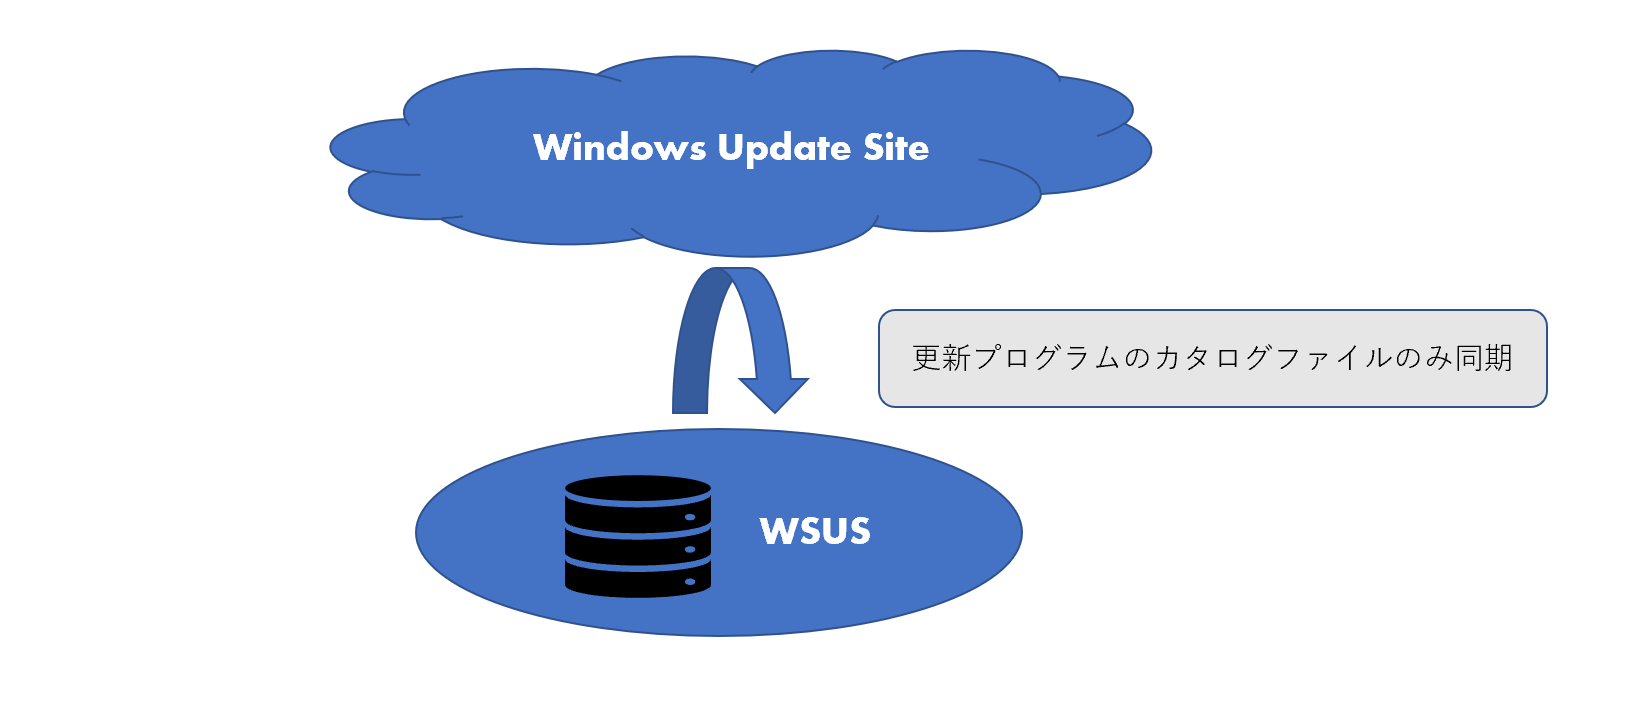
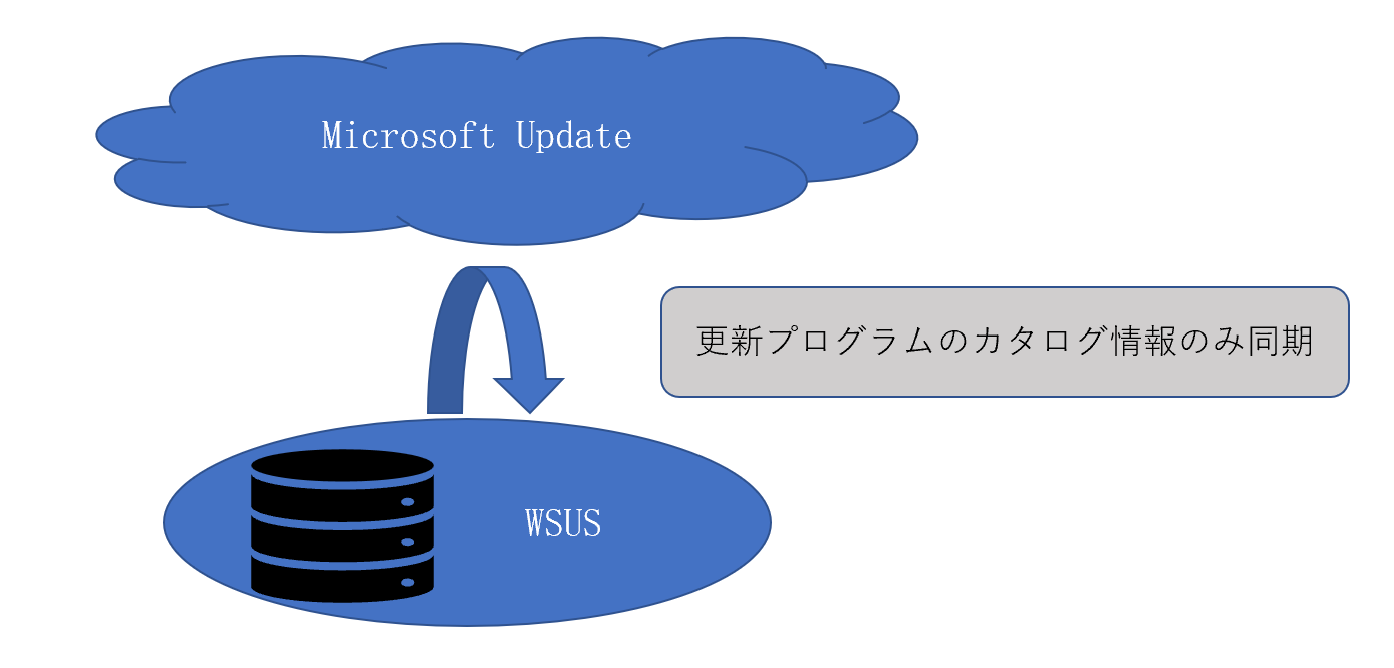
Added WSUS Blog Post 2022/06/06

Changed region(s): [[0.0617, 0.0299, 0.9871, 0.9581]]

diff --git a/articles/wsus/2022-06-06_01.md b/articles/wsus/2022-06-06_01.md
@@ -24,23 +24,33 @@ WSUS からクライアントが更新プログラムを取得するまでの流
 解説
 
 1. WSUS 同期  
-   WSUS は、更新プログラムを同期させる際に、カタログ情報と呼ばれるメタデータをダウンロードします。  
-   この時、更新プログラムのコンテンツファイルと呼ばれる実体ファイルはダウンロードしません。  
-   このカタログ情報は実体となるコンテンツファイルよりも非常にファイルサイズは小さいものとなります。
+    WSUS は、更新プログラムを同期させる際に、カタログ情報と呼ばれるメタデータをダウンロードします。  
+    この時、更新プログラムのコンテンツ ファイルと呼ばれる実体ファイルはダウンロードしません。  
+    このカタログ情報は実体となるコンテンツファイルよりもファイルサイズは小さいものとなり、カタログ情報は WSUS データベース (SUSDB) に格納されます。
    ![](2022-06-06_01/2022-06-06_01_6.png)
 
+   また、このカタログ情報は、アップストリーム サーバーがインターネットになっている場合には、Microsoft Update からダウンロードされます。  
+    一方、アップストリーム WSUS が指定されている場合は、アップストリーム WSUS からダウンロードされます。  
+    アップストリームサーバーは、 WSUS コンソールにて以下より設定いただけます。  
+   [オプション] > [更新元及びプロキシサーバー]  
+    ![](2022-06-06_01/2022-06-06_01_12.png)
+
 2. 更新プログラムの承認  
-   2-1.承認作業を実施することにより、データベースへ承認情報が変更されます。  
-   2-2. WSUS にて承認作業が行われることによって、更新プログラムのコンテンツ ファイルのダウンロードが開始されます。
-   このとき実体のファイルがダウンロードされます。  
+   2-1.承認作業を実施することにより、 WSUS データベースの承認情報が変更されます。  
+    ![](2022-06-06_01/2022-06-06_01_13.png)  
+    ![](2022-06-06_01/2022-06-06_01_14.png)
+   2-2. WSUS にて承認作業が行われることによって、更新プログラムのコンテンツ ファイルのダウンロードが開始されます。  
+   このとき、更新プログラムの実体となるコンテンツ ファイルが WsusContent フォルダーにダウンロードされます。  
    ![](2022-06-06_01/2022-06-06_01_7.png)
 
 3. クライアントが承認情報を取得
    クライアントは、（ランダム時間を含む）既定で約 22 時間毎に WindowsUpdate の自動更新を実行し、 WSUS へスキャン処理を実施します。自らに必要な更新プログラムが承認されていた場合には、その情報をもとに、自動更新の構成ポリシーの設定に従って適用作業を実施します。  
    ![](2022-06-06_01/2022-06-06_01_8.png)
 
-補足情報  
-WSUS サーバー上のコンテンツ ファイルの有無を確認  
+# 補足情報
+
+## WSUS サーバー上のコンテンツ ファイルの有無を確認
+
 1． WSUS コンソールで対象の更新プログラムを右クリックし「 ファイル情報 」を参照します。  
 ![](2022-06-06_01/2022-06-06_01_1.png)  
 2．更新プログラムの URI が表示されています。これが更新プログラムの実体ファイルの格納先になります。  
@@ -51,7 +61,15 @@ WSUS サーバー上のコンテンツ ファイルの有無を確認
 4．フォルダー内に格納されているファイルが存在するかを確認します。  
  ![](2022-06-06_01/2022-06-06_01_4.png)
 
-コンテンツ ファイルの削除方法  
+5． WSUS コンソール上では [更新プログラム] の表示にて、ファイルの状態列を追加し、コンテンツ ファイルのダウンロード状況を確認いただけます。  
+カラムを右クリックし、" ファイルの状態 "　を列に追加します。  
+![](2022-06-06_01/2022-06-06_01_9.png)  
+" ファイルの状態 " 列のアイコンで「ダウンロード中」や、「インストール準備完了」(コンテンツ ファイルのダウンロードが完了したことを示す) になっているかを確認できます。  
+![](2022-06-06_01/2022-06-06_01_10.png)  
+![](2022-06-06_01/2022-06-06_01_11.png)
+
+## コンテンツ ファイルの削除方法
+
 1.承認済みの更新プログラムの拒否済みへ変更します。  
 2.クリーンナップウィザードの "不要な更新ファイル" を実施しますと拒否済みとした更新プログラムのコンテンツ ファイルがサーバーから削除されます。  
 ![](2022-06-06_01/2022-06-06_01_5.png)
